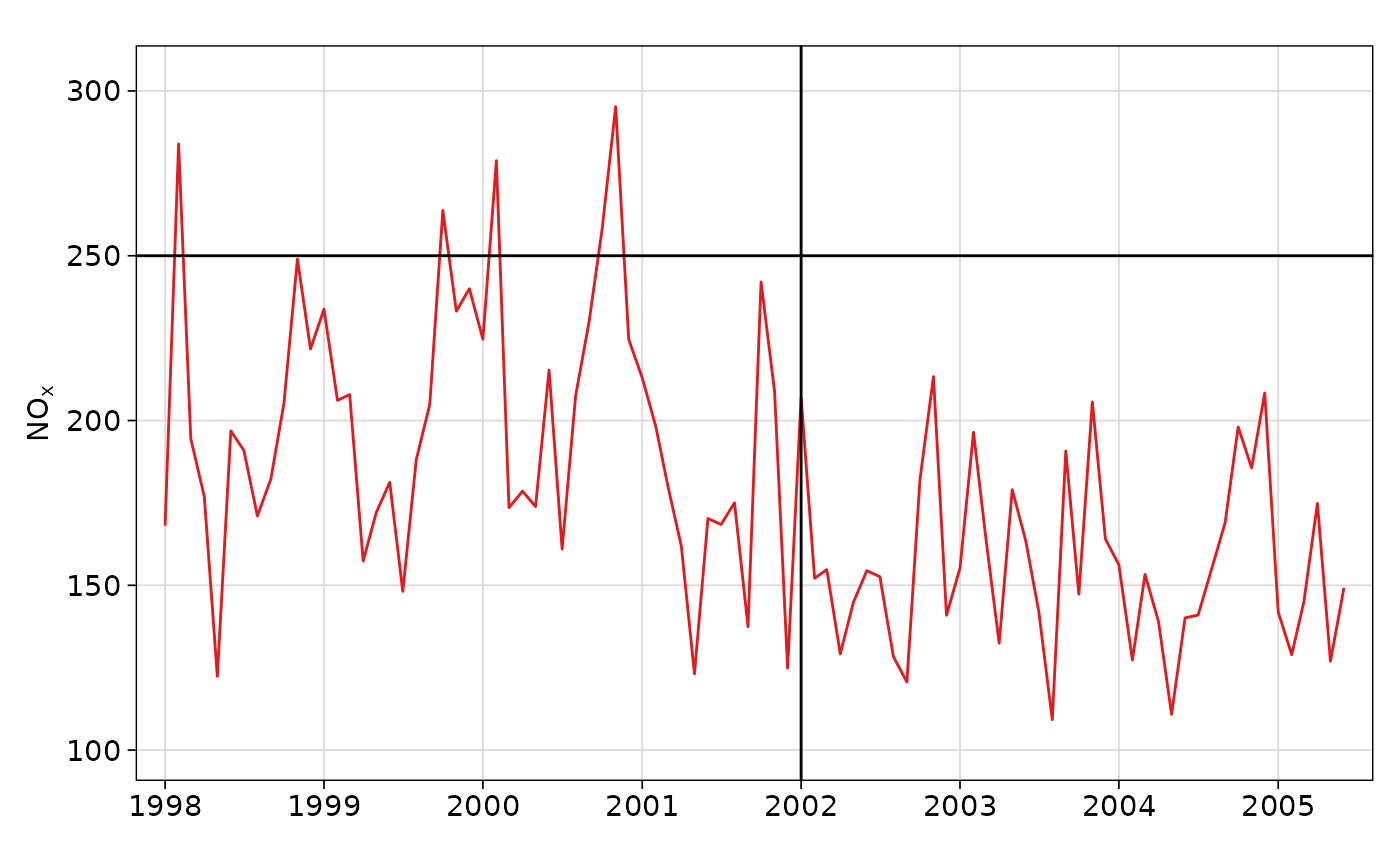
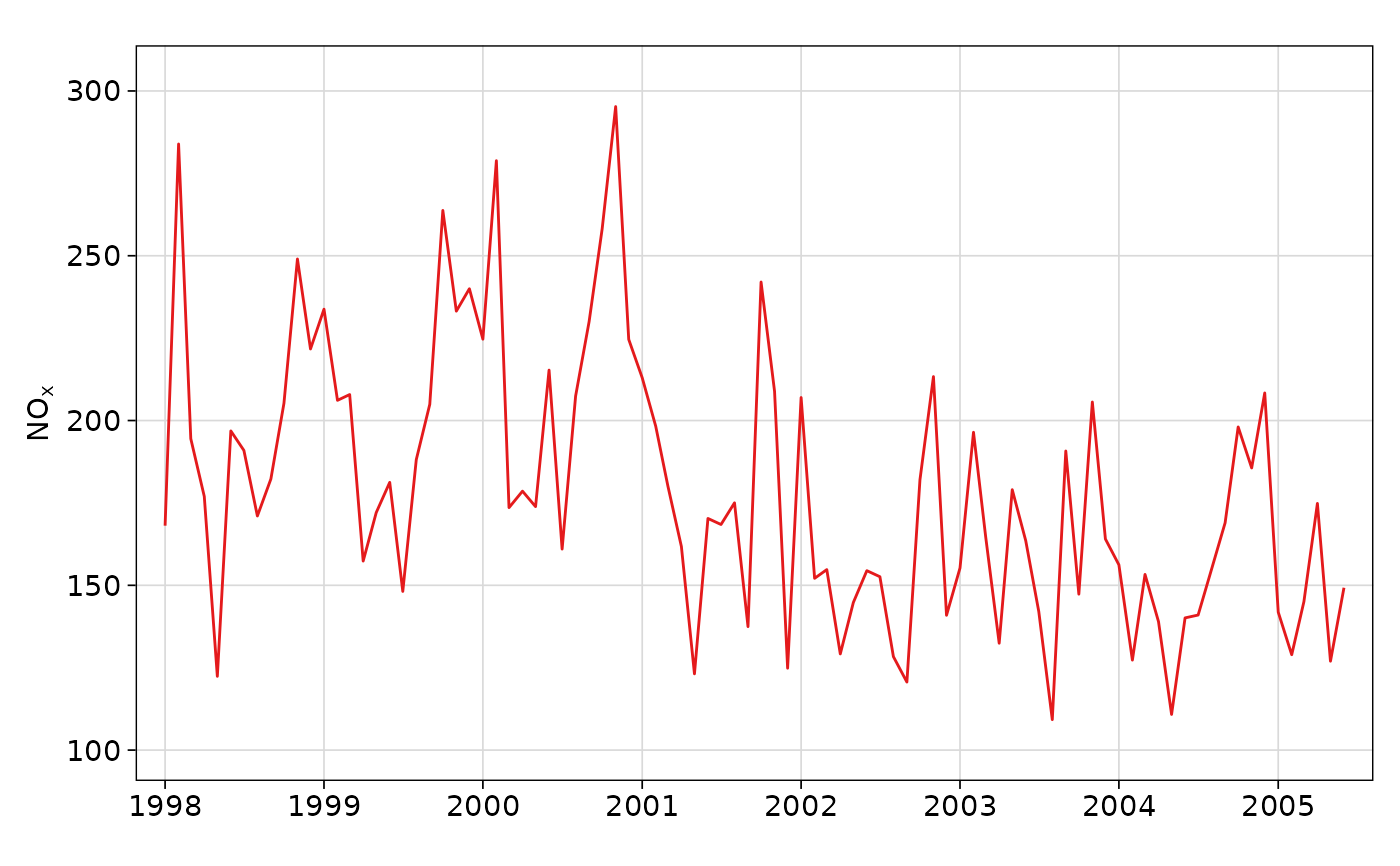
Deploying to gh-pages from @ openair-project/openair@97886840de32074b823ba38554db27ba5c67b4bc 🚀

Changed region(s): [[0.0921, 0.2806, 0.9829, 0.3118]]

diff --git a/reference/splitByDate.html b/reference/splitByDate.html
@@ -143,17 +143,17 @@ defines the formats <code>splitByDate()</code> will use to coerce <code>dates</c
 <span class="r-in"><span>  name <span class="op">=</span> <span class="st">"data_type"</span></span></span>
 <span class="r-in"><span><span class="op">)</span></span></span>
 <span class="r-out co"><span class="r-pr">#&gt;</span>          date nox data_type</span>
-<span class="r-out co"><span class="r-pr">#&gt;</span> 1  2026-06-21  50  measured</span>
-<span class="r-out co"><span class="r-pr">#&gt;</span> 2  2026-06-22  60  measured</span>
-<span class="r-out co"><span class="r-pr">#&gt;</span> 3  2026-06-23  70  measured</span>
-<span class="r-out co"><span class="r-pr">#&gt;</span> 4  2026-06-24  80  measured</span>
-<span class="r-out co"><span class="r-pr">#&gt;</span> 5  2026-06-25  90  measured</span>
-<span class="r-out co"><span class="r-pr">#&gt;</span> 6  2026-06-26 100  measured</span>
-<span class="r-out co"><span class="r-pr">#&gt;</span> 7  2026-06-27 110  modelled</span>
-<span class="r-out co"><span class="r-pr">#&gt;</span> 8  2026-06-28 120  modelled</span>
-<span class="r-out co"><span class="r-pr">#&gt;</span> 9  2026-06-29 130  modelled</span>
-<span class="r-out co"><span class="r-pr">#&gt;</span> 10 2026-06-30 140  modelled</span>
-<span class="r-out co"><span class="r-pr">#&gt;</span> 11 2026-07-01 150  modelled</span>
+<span class="r-out co"><span class="r-pr">#&gt;</span> 1  2026-06-25  50  measured</span>
+<span class="r-out co"><span class="r-pr">#&gt;</span> 2  2026-06-26  60  measured</span>
+<span class="r-out co"><span class="r-pr">#&gt;</span> 3  2026-06-27  70  measured</span>
+<span class="r-out co"><span class="r-pr">#&gt;</span> 4  2026-06-28  80  measured</span>
+<span class="r-out co"><span class="r-pr">#&gt;</span> 5  2026-06-29  90  measured</span>
+<span class="r-out co"><span class="r-pr">#&gt;</span> 6  2026-06-30 100  measured</span>
+<span class="r-out co"><span class="r-pr">#&gt;</span> 7  2026-07-01 110  modelled</span>
+<span class="r-out co"><span class="r-pr">#&gt;</span> 8  2026-07-02 120  modelled</span>
+<span class="r-out co"><span class="r-pr">#&gt;</span> 9  2026-07-03 130  modelled</span>
+<span class="r-out co"><span class="r-pr">#&gt;</span> 10 2026-07-04 140  modelled</span>
+<span class="r-out co"><span class="r-pr">#&gt;</span> 11 2026-07-05 150  modelled</span>
 </code></pre></div>
     </div>
   </main><aside class="col-md-3"><nav id="toc" aria-label="Table of contents"><h2>On this page</h2>

diff --git a/reference/refOpts.html b/reference/refOpts.html
@@ -72,8 +72,12 @@ arguments will be recycled to be equal to that length.</p>
 <span>  alpha <span class="op">=</span> <span class="fl">1</span>,</span>
 <span>  colour <span class="op">=</span> <span class="st">"black"</span>,</span>
 <span>  linetype <span class="op">=</span> <span class="fl">1</span>,</span>
-<span>  linewidth <span class="op">=</span> <span class="fl">1</span>,</span>
-<span>  color <span class="op">=</span> <span class="cn">NULL</span></span>
+<span>  linewidth <span class="op">=</span> <span class="fl">0.6</span>,</span>
+<span>  label <span class="op">=</span> <span class="cn">NULL</span>,</span>
+<span>  label_size <span class="op">=</span> <span class="fl">10</span>,</span>
+<span>  label_colour <span class="op">=</span> <span class="cn">NULL</span>,</span>
+<span>  color <span class="op">=</span> <span class="cn">NULL</span>,</span>
+<span>  label_color <span class="op">=</span> <span class="cn">NULL</span></span>
 <span><span class="op">)</span></span></code></pre></div>
     </div>
 
@@ -108,6 +112,14 @@ dashed) or a string (e.g., "solid", "dashed"). Default is 1 (solid).</p></dd>
 <dt id="arg-linewidth">linewidth<a class="anchor" aria-label="anchor" href="#arg-linewidth"></a></dt>
 <dd><p>Numeric value specifying the width of the lines. Default is
 1.</p></dd>
+
+
+<dt id="arg-label-label-size-label-colour-label-color">label, label_size, label_colour, label_color<a class="anchor" aria-label="anchor" href="#arg-label-label-size-label-colour-label-color"></a></dt>
+<dd><p><code>label</code> takes character
+string to add a direct label to the reference line. For <code>ref.x</code> this will
+be on the right hand side of the plot, and for <code>ref.y</code> this will be on top.
+<code>label_size</code> and <code>label_colour</code> set label aesethetics, with the latter
+defaulting to <code>colour</code> if not set.</p></dd>
 
 </dl></div>
     <div class="section level2">

diff --git a/news/index.html b/news/index.html
@@ -66,6 +66,7 @@
 </ul></li>
 <li><p><code><a href="../reference/importMeta.html">importMeta()</a></code> can now filter by site code, site name, site type, pollutants measured, and the distance from a given coordinate.</p></li>
 <li><p>Added <code><a href="../reference/distPlot.html">distPlot()</a></code>, which flexibly plots histograms and density functions to examine the ‘shape’ of the distribution of numeric data.</p></li>
+<li><p><code><a href="../reference/refOpts.html">refOpts()</a></code> gains the <code>label</code>, <code>label_size</code> and <code>label_colo(u)r</code> arguments. These options require the <a href="https://teunbrand.github.io/legendry/" class="external-link">legendry</a> package and add direct labels to the reference lines on the opposite side to the numeric axes.</p></li>
 <li><p><code><a href="../reference/timePlot.html">timePlot()</a></code> gains the <code>step</code> argument which causes a “stairstep” plot to be created instead of a traditional line chart. This is likely most useful for low resolution or ‘multi-day’ (e.g., diffusion tube) data.</p></li>
 </ul></div>
 <div class="section level3">

diff --git a/reference/splitByDate.md b/reference/splitByDate.md
@@ -86,15 +86,15 @@ splitByDate(dummy,
   name = "data_type"
 )
 #>          date nox data_type
-#> 1  2026-06-21  50  measured
-#> 2  2026-06-22  60  measured
-#> 3  2026-06-23  70  measured
-#> 4  2026-06-24  80  measured
-#> 5  2026-06-25  90  measured
-#> 6  2026-06-26 100  measured
-#> 7  2026-06-27 110  modelled
-#> 8  2026-06-28 120  modelled
-#> 9  2026-06-29 130  modelled
-#> 10 2026-06-30 140  modelled
-#> 11 2026-07-01 150  modelled
+#> 1  2026-06-25  50  measured
+#> 2  2026-06-26  60  measured
+#> 3  2026-06-27  70  measured
+#> 4  2026-06-28  80  measured
+#> 5  2026-06-29  90  measured
+#> 6  2026-06-30 100  measured
+#> 7  2026-07-01 110  modelled
+#> 8  2026-07-02 120  modelled
+#> 9  2026-07-03 130  modelled
+#> 10 2026-07-04 140  modelled
+#> 11 2026-07-05 150  modelled
 ```

diff --git a/reference/refOpts.md b/reference/refOpts.md
@@ -14,8 +14,12 @@ refOpts(
   alpha = 1,
   colour = "black",
   linetype = 1,
-  linewidth = 1,
-  color = NULL
+  linewidth = 0.6,
+  label = NULL,
+  label_size = 10,
+  label_colour = NULL,
+  color = NULL,
+  label_color = NULL
 )
 ```
 
@@ -51,6 +55,13 @@ refOpts(
 - linewidth:
 
   Numeric value specifying the width of the lines. Default is 1.
+
+- label, label_size, label_colour, label_color:
+
+  `label` takes character string to add a direct label to the reference
+  line. For `ref.x` this will be on the right hand side of the plot, and
+  for `ref.y` this will be on top. `label_size` and `label_colour` set
+  label aesethetics, with the latter defaulting to `colour` if not set.
 
 ## Value
 

diff --git a/news/index.md b/news/index.md
@@ -36,6 +36,12 @@
   which flexibly plots histograms and density functions to examine the
   ‘shape’ of the distribution of numeric data.
 
+- [`refOpts()`](https://openair-project.github.io/openair/reference/refOpts.md)
+  gains the `label`, `label_size` and `label_colo(u)r` arguments. These
+  options require the [legendry](https://teunbrand.github.io/legendry/)
+  package and add direct labels to the reference lines on the opposite
+  side to the numeric axes.
+
 - [`timePlot()`](https://openair-project.github.io/openair/reference/timePlot.md)
   gains the `step` argument which causes a “stairstep” plot to be
   created instead of a traditional line chart. This is likely most